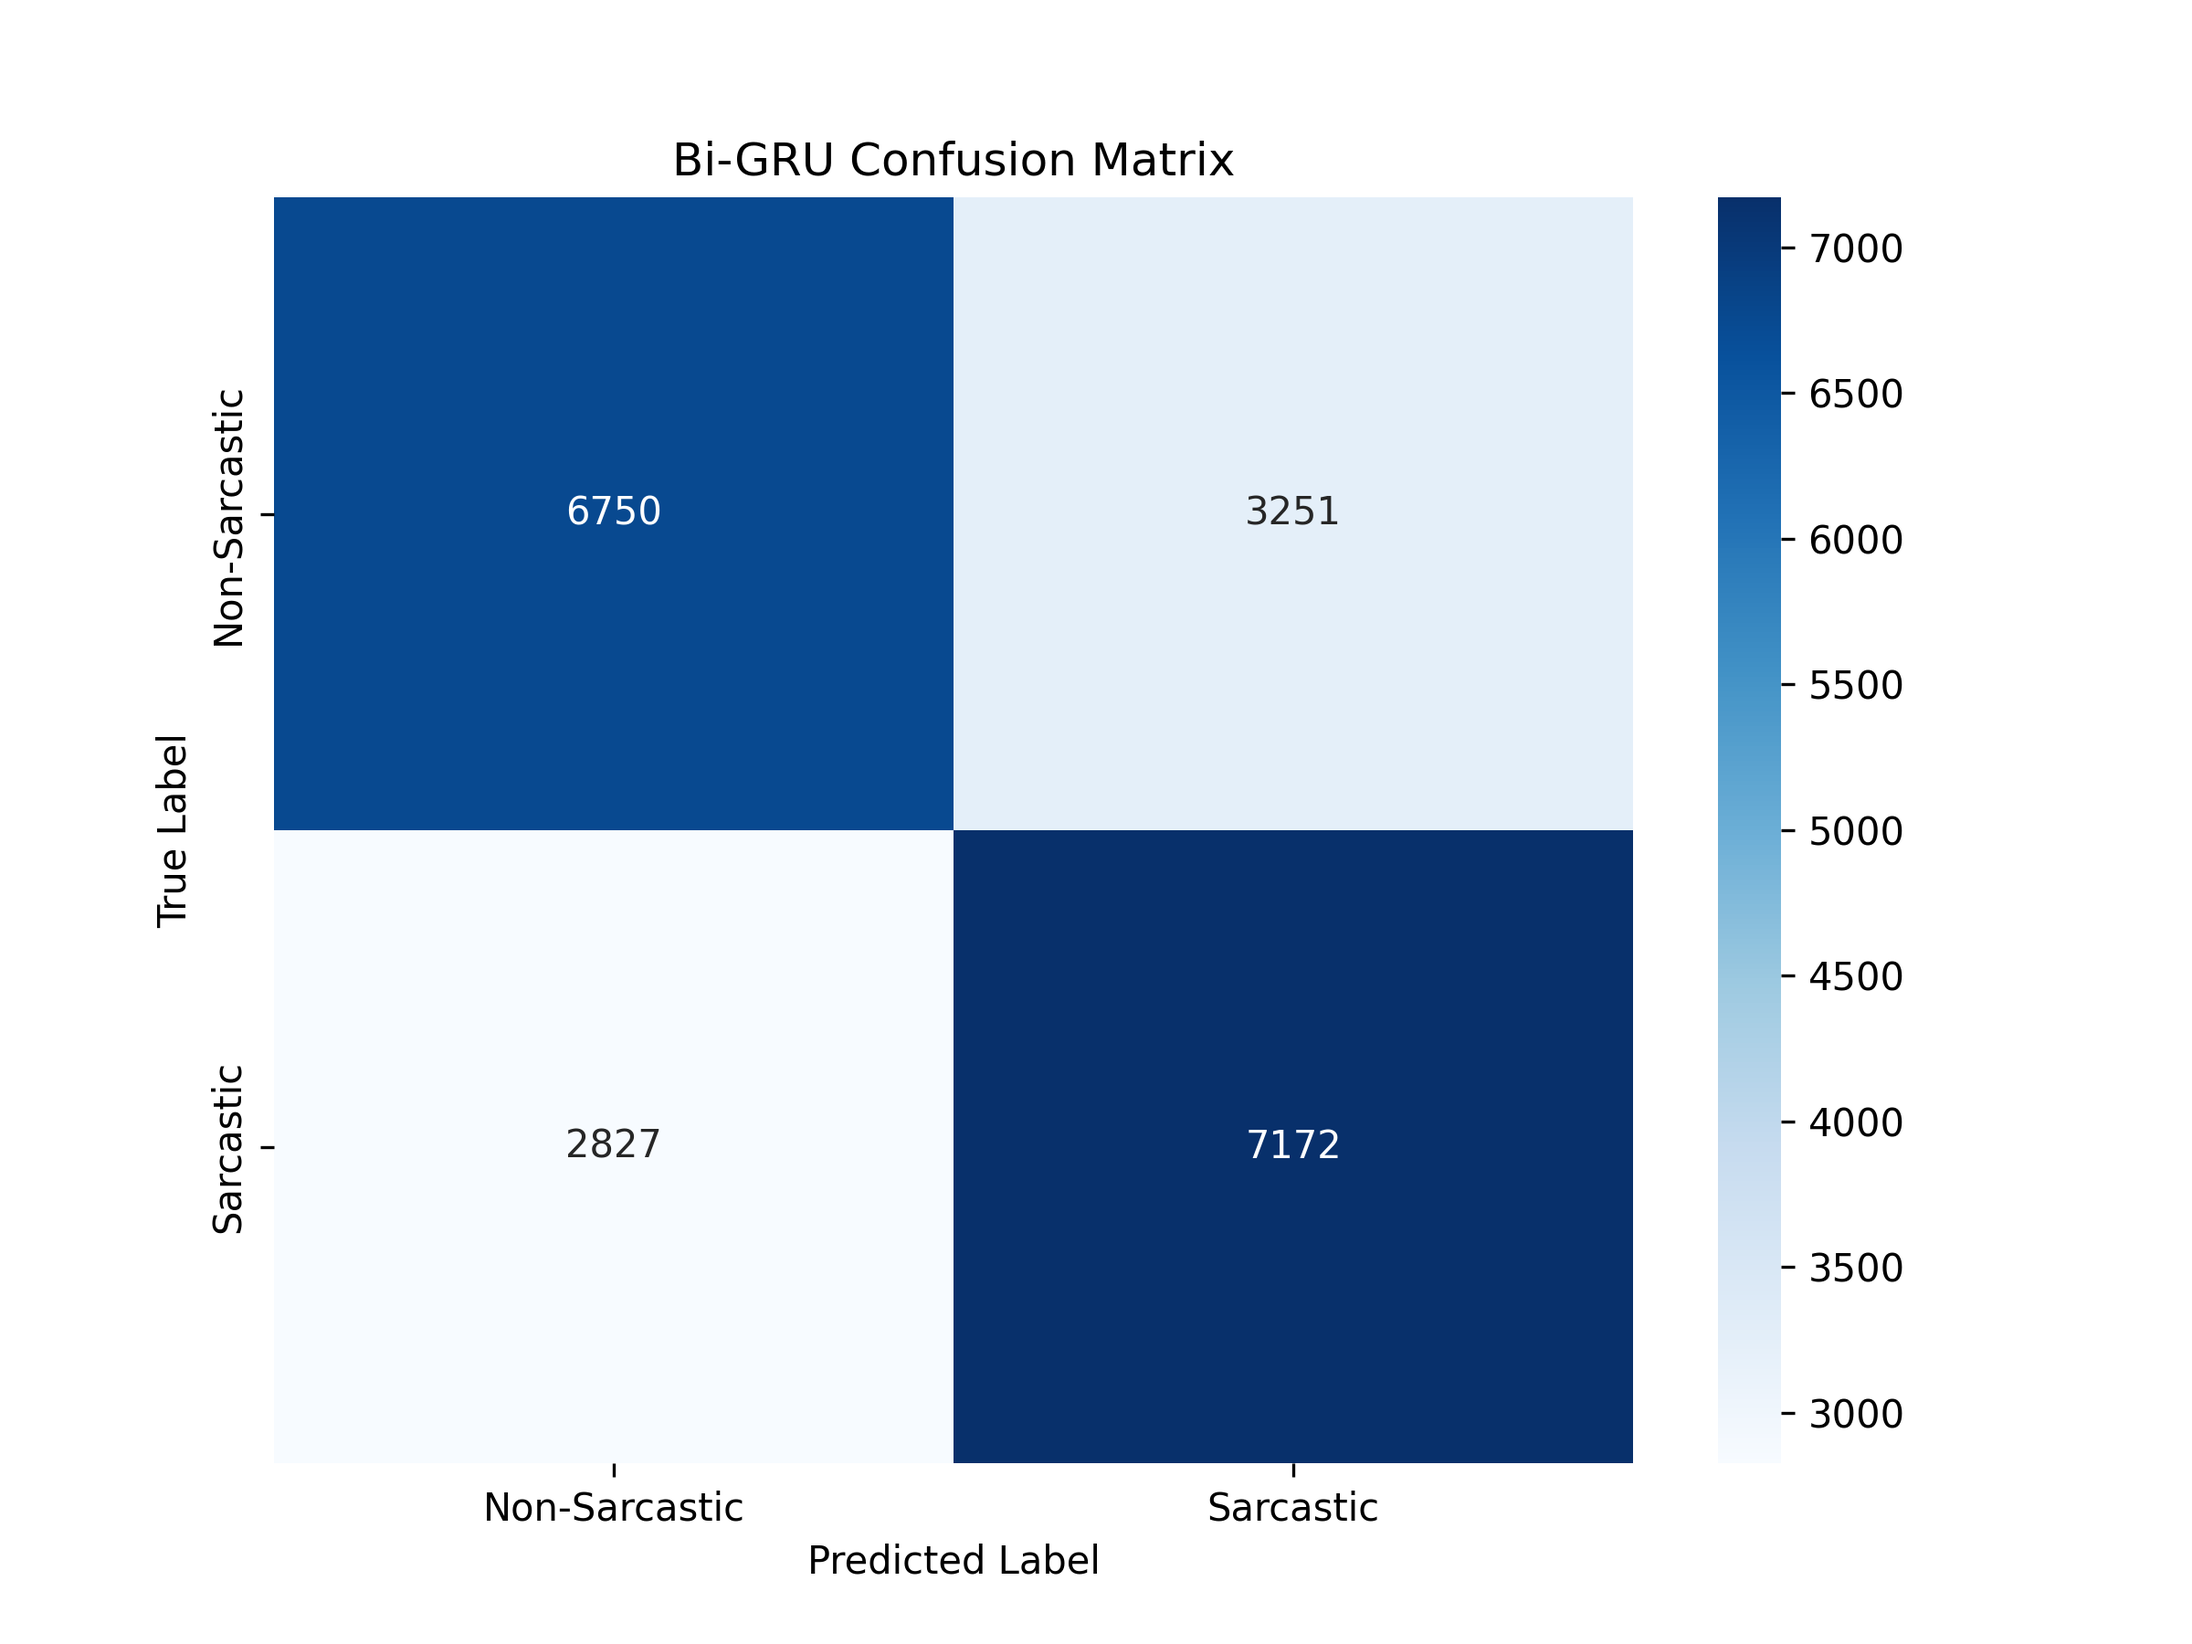
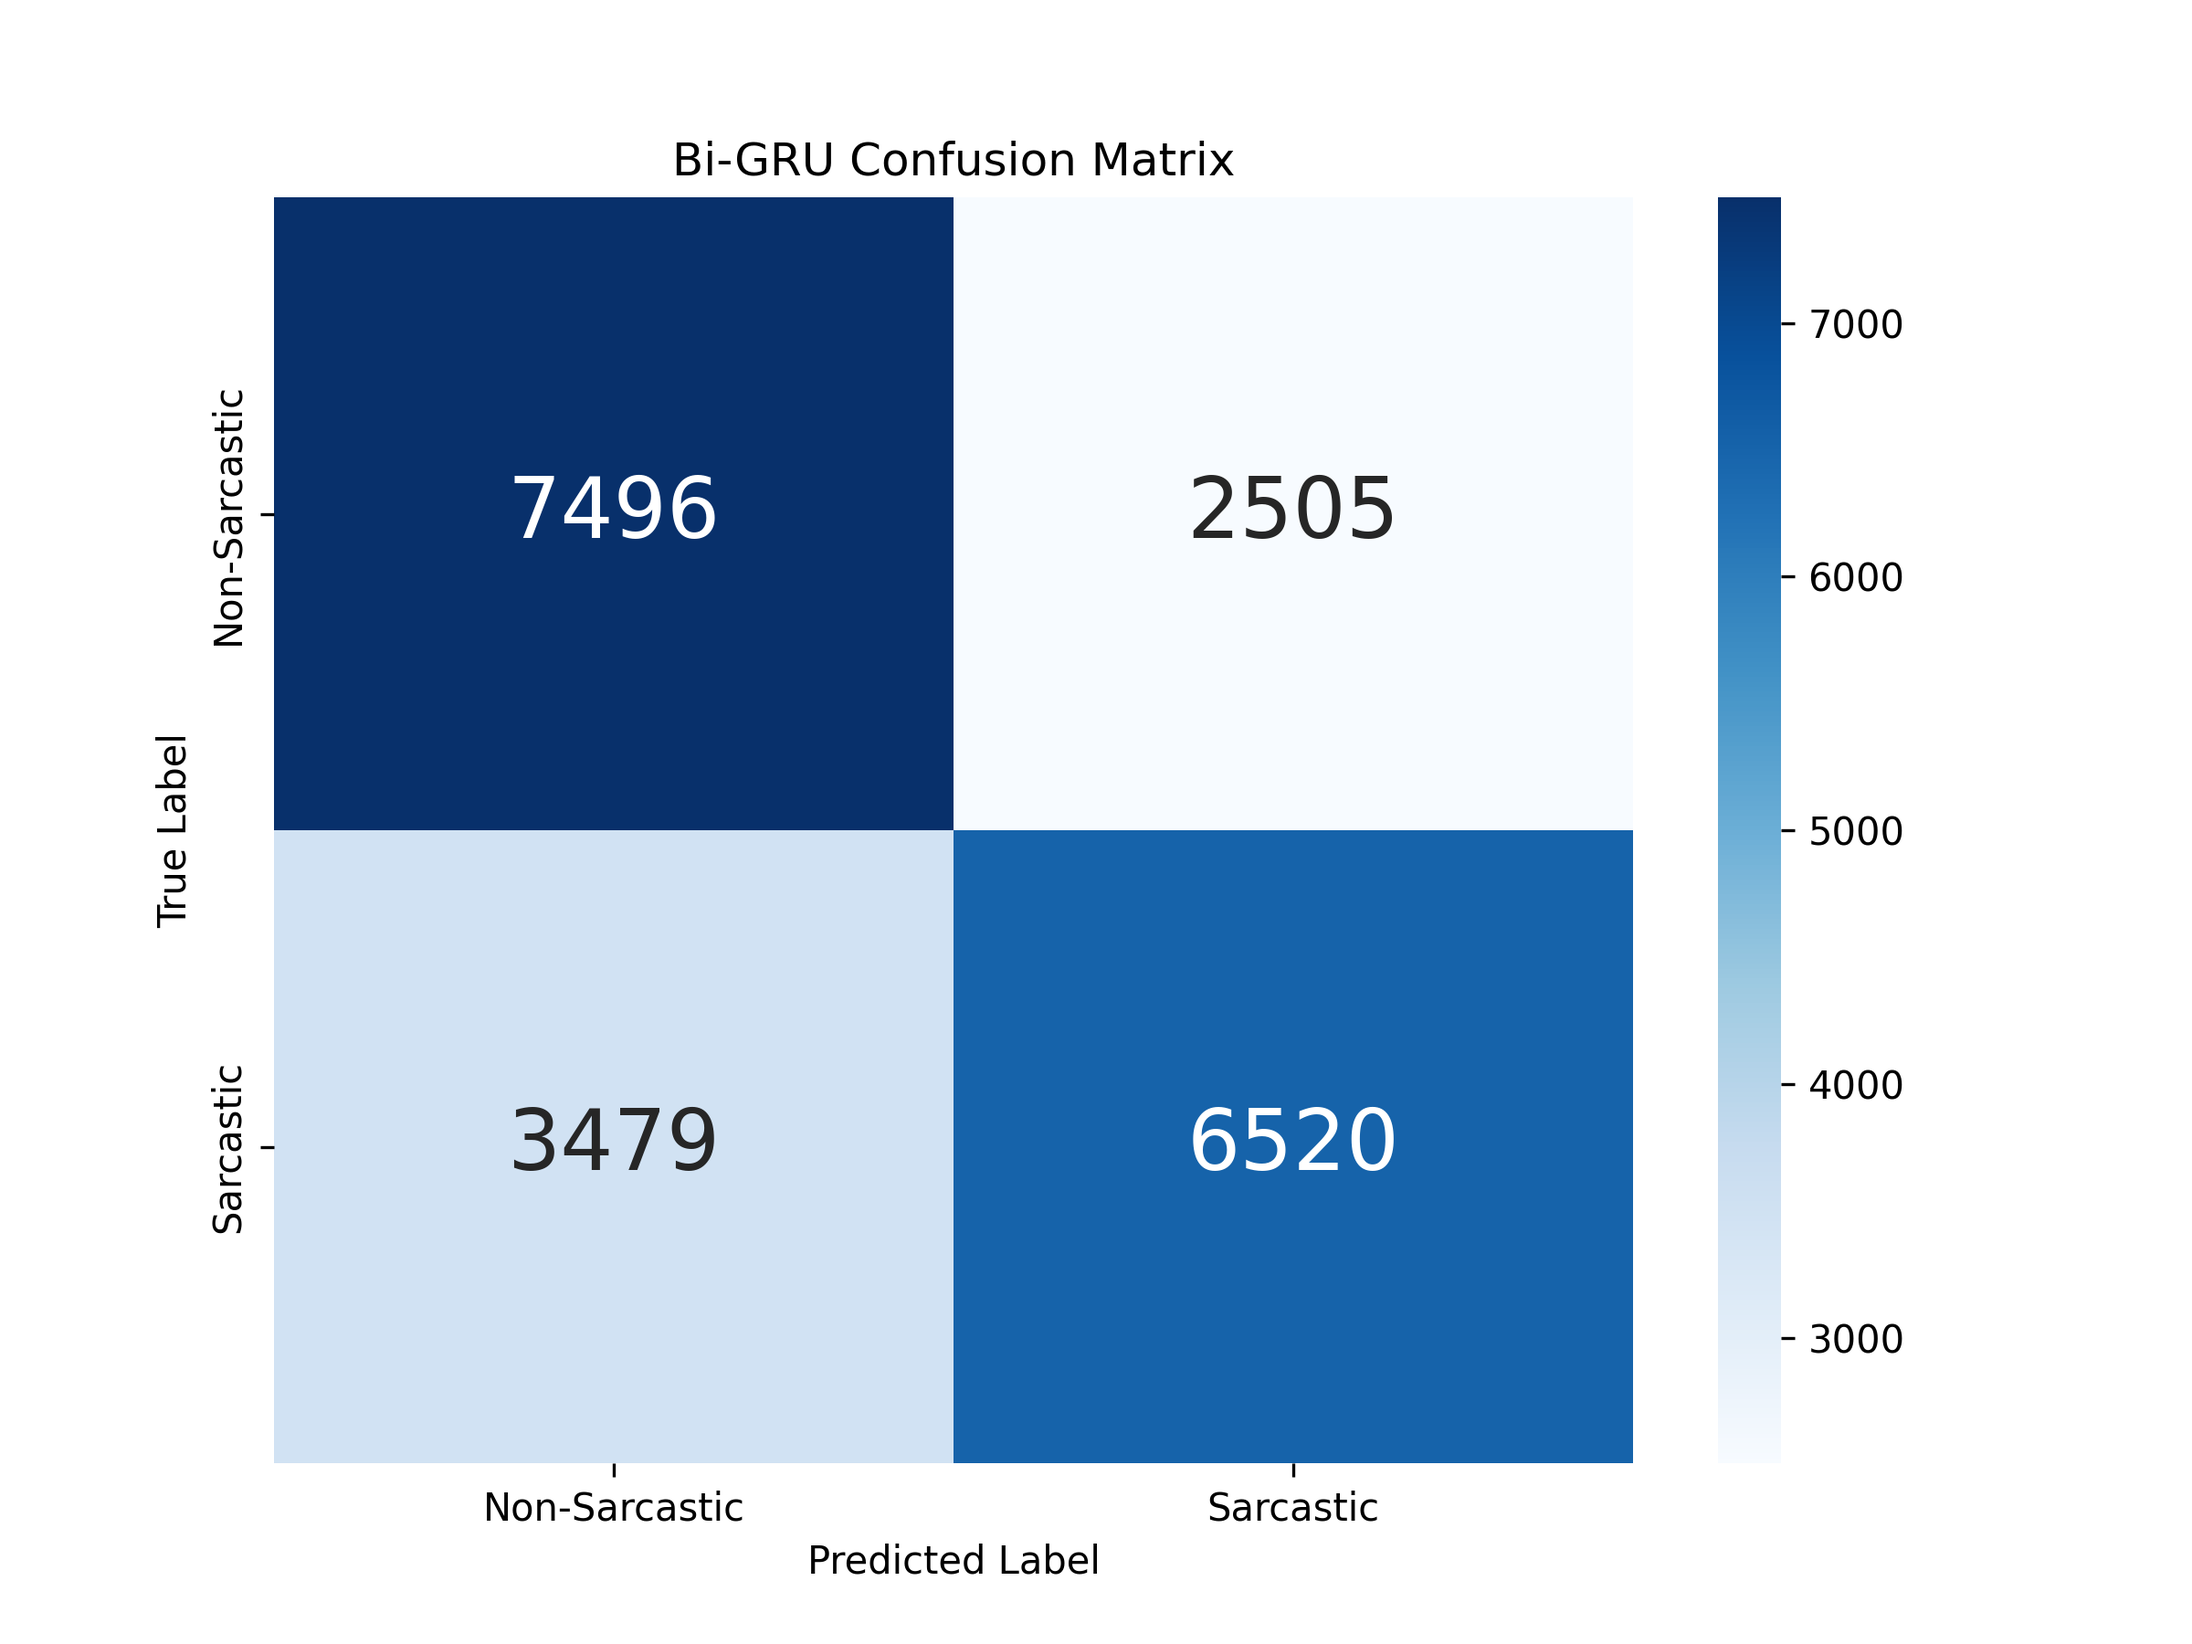
Changed visuals

diff --git a/Bi-GRU/Bi-GRU.py b/Bi-GRU/Bi-GRU.py
@@ -41,7 +41,7 @@ def load_data(file_path, sample_size=100000):
     return df
 
 # Main processing: load the dataset and split into train and test sets.
-df = load_data('../../train-balanced-sarcasm.csv')
+df = load_data('../train-balanced-sarcasm.csv')
 train_texts, test_texts, train_labels, test_labels = train_test_split(
     df['cleaned_comment'], 
     df['label'], 
@@ -160,7 +160,8 @@ plt.figure(figsize=(8, 6))
 cm = confusion_matrix(test_labels, y_pred)
 sns.heatmap(cm, annot=True, fmt='d', cmap='Blues',
             xticklabels=['Non-Sarcastic', 'Sarcastic'],
-            yticklabels=['Non-Sarcastic', 'Sarcastic'])
+            yticklabels=['Non-Sarcastic', 'Sarcastic'],
+            annot_kws={"size": 22})
 plt.title('Bi-GRU Confusion Matrix')
 plt.ylabel('True Label')
 plt.xlabel('Predicted Label')
